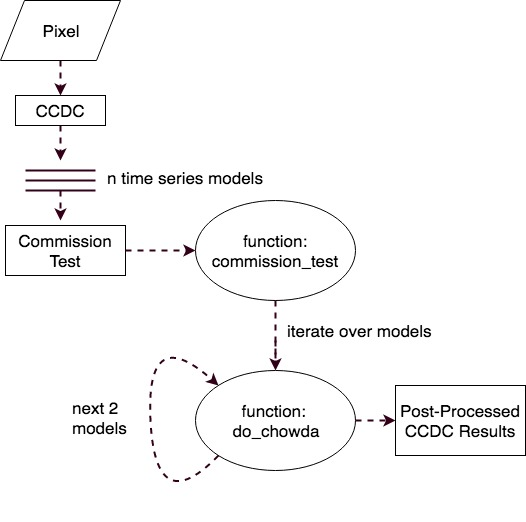
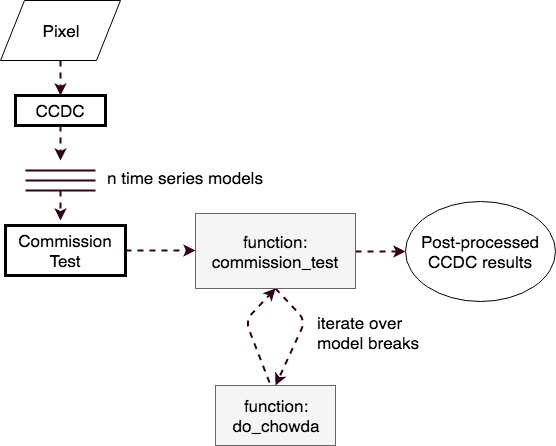
update equation, simplify code

diff --git a/yatsm/algorithms/commission_test/commission_test.py b/yatsm/algorithms/commission_test/commission_test.py
@@ -12,7 +12,7 @@ logger = logging.getLogger('yatsm')
 
 def do_chowda(yatsm, m_1_start, m_1_end,
           m_2_start, m_2_end, m_r_start,
-          m_r_end, models, behavior,
+          m_r_end, models,
           k, n, F_crit):
     """
 
@@ -33,8 +33,8 @@ def do_chowda(yatsm, m_1_start, m_1_end,
         - :math:`n` is the number of total observations
 
     The restricted model corresponds to the model using the pooled observations
-    spanning full test period. The model is restricted in that the coefficients are
-    assumed to be equal for the entirety of the time period. To test the null
+    spanning the full test period. The model is restricted in that the coefficients
+    are assumed to be equal for the entirety of the time period. To test the null
     hypothesis that the restrictions on the model are true (and there should not
     be two seperate groups, or in our case a model break), we calculate the Chow
     Test statistic, which follows an F-distribution. Accepting the null hypothesis
@@ -63,26 +63,19 @@ def do_chowda(yatsm, m_1_start, m_1_end,
                                        yatsm.Y[b, m_2_start:m_2_end])[1]
         m_r_rss[i_b] = np.linalg.lstsq(yatsm.X[m_r_start:m_r_end, :],
                                        yatsm.Y[b, m_r_start:m_r_end])[1]
-    # Calculate F stat for band
-        F_band = (((m_r_rss[i_b] - (m_1_rss[i_b] + m_2_rss[i_b])) / k)
-         / ((m_1_rss[i_b] + m_2_rss[i_b]) / (n - 2 * k)))
-        F_stats.append(F_band)
 
     #Get weights for the mean based on average r^2 across bands
     weights = get_weights(yatsm)
 
-    # How to collapse test statistic across bands? There are multiple possible ways, but
-    # for testing we calculated the weighted means of each of the 3 rss across bands,
-    # and used the means to calculate the Chow test statistic
-
-    F2 = (
+    # Calculate Chow test statistic using weighted means of the model RSS
+    F = (
          ((w_av(m_r_rss, weights) - (w_av(m_1_rss, weights)
          + w_av(m_2_rss, weights))) / k ) /
          ((w_av(m_1_rss, weights) + w_av(m_2_rss, weights))
          / (n - 2 * k))
          )
 
-    if F2 > F_crit:
+    if F > F_crit:
         reject = True
     else:
         reject = False
@@ -96,12 +89,15 @@ def w_av(data, weights):
 def get_weights(yatsm):
     """ Get weights based on average coefficient of determination between bands.
     Basically this is used to determine which bands are least correlated to the other
-    bands based on the reflectance time series  """
-    weights = 1 - (np.sum((np.corrcoef(yatsm.Y[yatsm.test_indices]))**2,axis=0) /
+    bands based on the cloud-masked reflectance time series  """
+    weights = 1 - 
+	      (np.sum((
+	      np.corrcoef(
+	      yatsm.Y[yatsm.test_indices]))**2,axis=0) /
               len(yatsm.test_indices))
     return weights
 
-def commission_test(yatsm, alpha=0.10,behavior="collapse"):
+def commission_test(yatsm, alpha=0.10):
     """ Master function for testing whether to merge adjacent models due to incorrect
     changes detected by CCDC.
     Args:

diff --git a/yatsm/algorithms/commission_test/commission_psuedocode.md b/yatsm/algorithms/commission_test/commission_psuedocode.md
@@ -16,7 +16,7 @@ function do_chowda:
 
     weights = perform function "get_weights"
 
-    F = F statistic using weighted means of rss within formula
+    F = F statistic using weighted means from function "w_av" for each rss within formula
     if F > F_crit:
         reject = True
         dont merge
@@ -29,7 +29,7 @@ function w_av:
     return weighted average based on weights variable
 
 function get_weights:
-    return weights
+    return band weights
 
 function commission_test:
     if number of models = 1:
@@ -92,7 +92,7 @@ Function for performing the modified Chow Test [(Chow 1960)](http://www.jstor.or
 
 Chow test is described:
 
-\frac{[RSS_r - (RSS_1 + RSS_2)] / k}{(RSS_1 + RSS_2) / (n - 2k)}
+![equation](https://raw.githubusercontent.com/bullocke/yatsm/postprocess/yatsm/algorithms/commission_test/equation.svg)
 
 where:
 - RSS_r: the RSS of the combined, or, restricted model
@@ -137,7 +137,7 @@ weights = perform function "get_weights"
 How to collapse test statistic across bands? There are various ways of doing it, but in testing we used the band weights to calculate the weighted average of each RSS, and used the means to calculate the Chow Test Statistic. The Chow Test statistic follows an F-distribution. If the test statistic exceeds the critical value, we reject the null hypothesis that the model restrictions are true and retain that there are two statistically seperate groups of data and the break is
 confirmed. 
 ```python
-F = F statistic using weighted means of rss within formula
+F = F statistic using weighted means from function "w_av" for each rss within formula
 if F > F_crit:
     reject = True
     dont merge
@@ -189,7 +189,7 @@ merged = False
 Loop over every model in time series that has a break
 
 ```python
-for every model containig a break and subsequent model in time series:
+for every model containing a break and subsequent model in time series:
     if the previous models were merged:
         m_1 = previous model
     else: 
